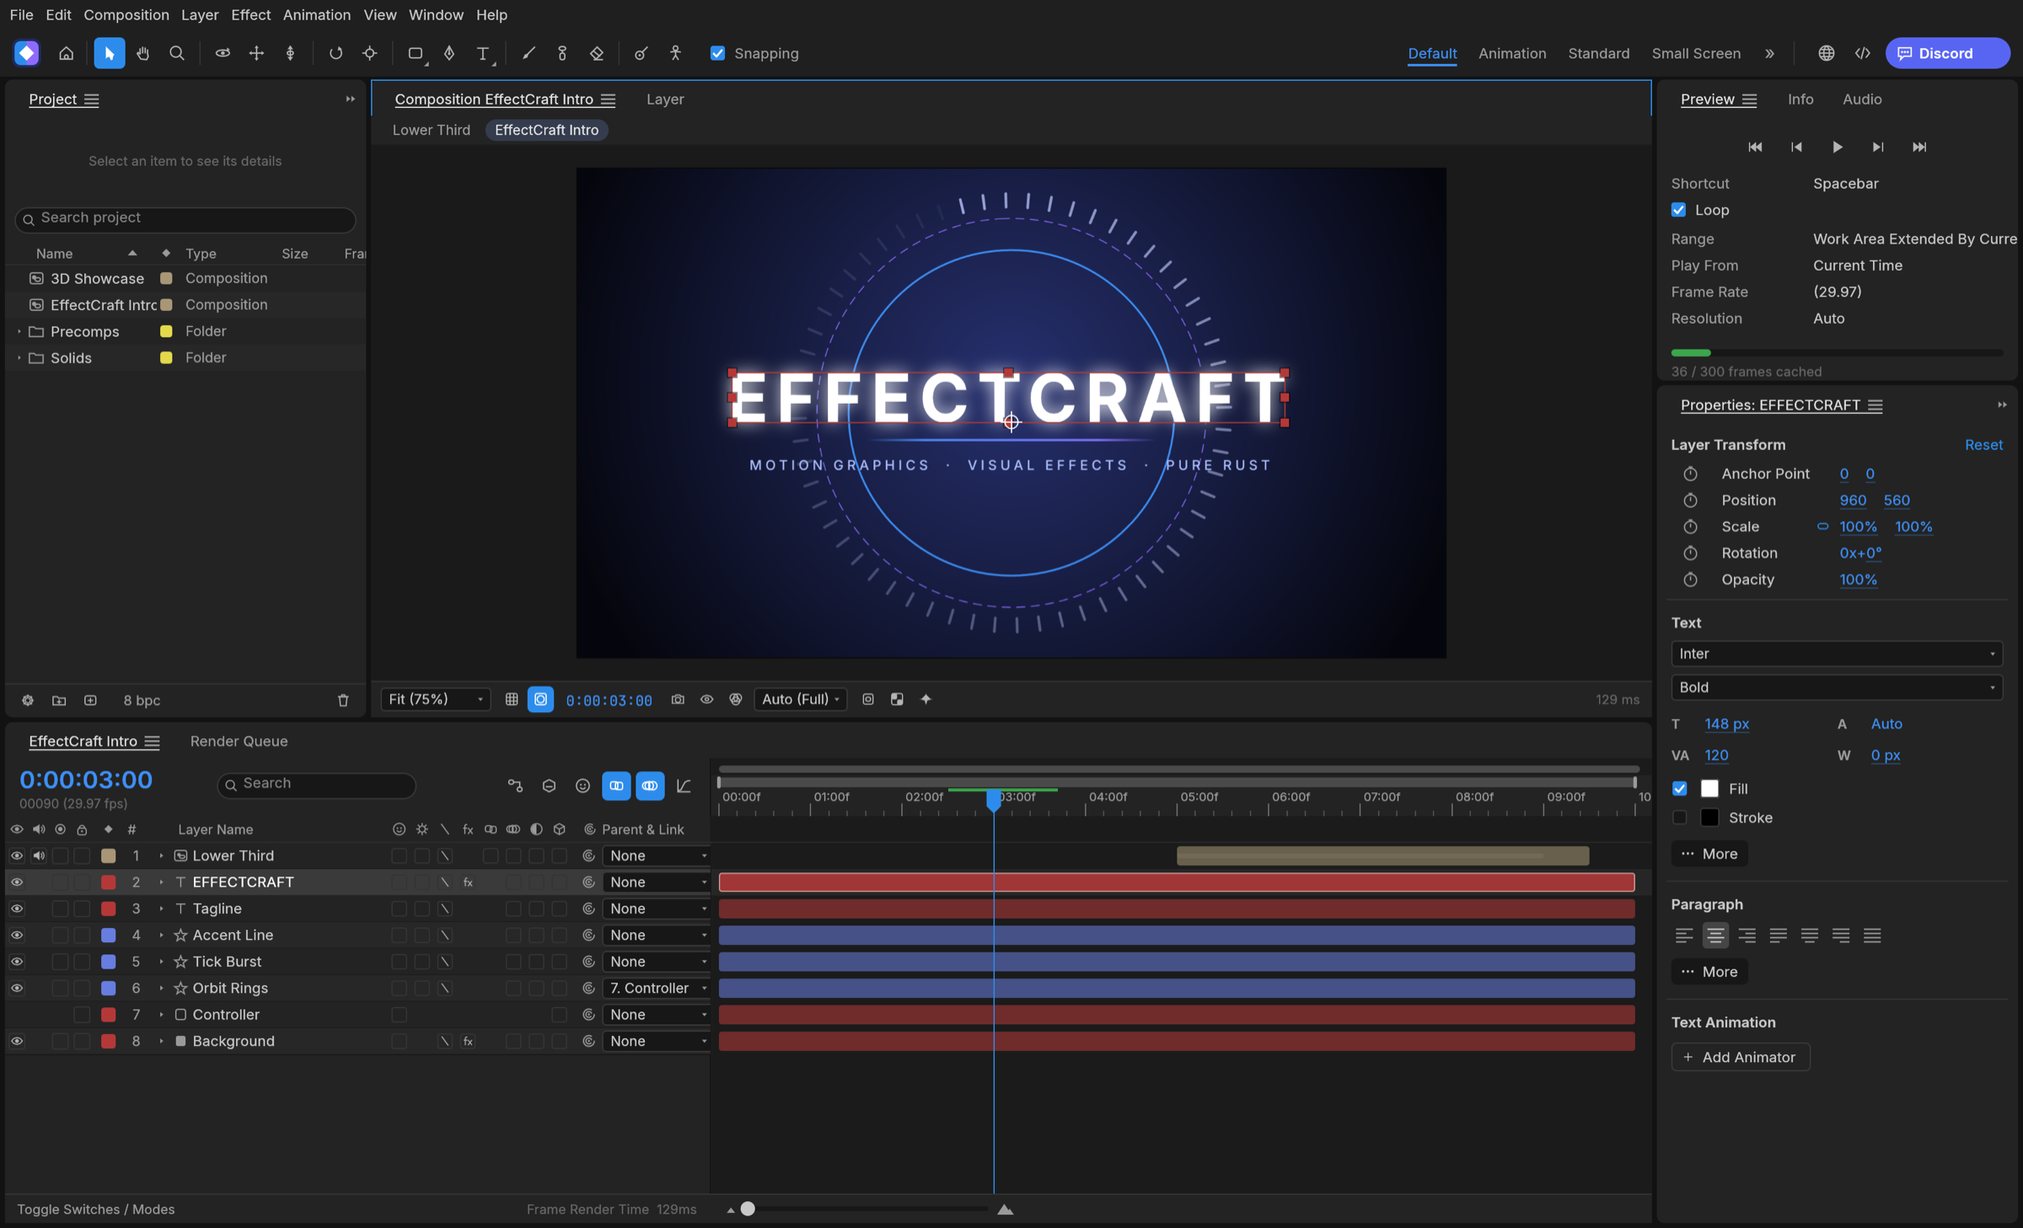
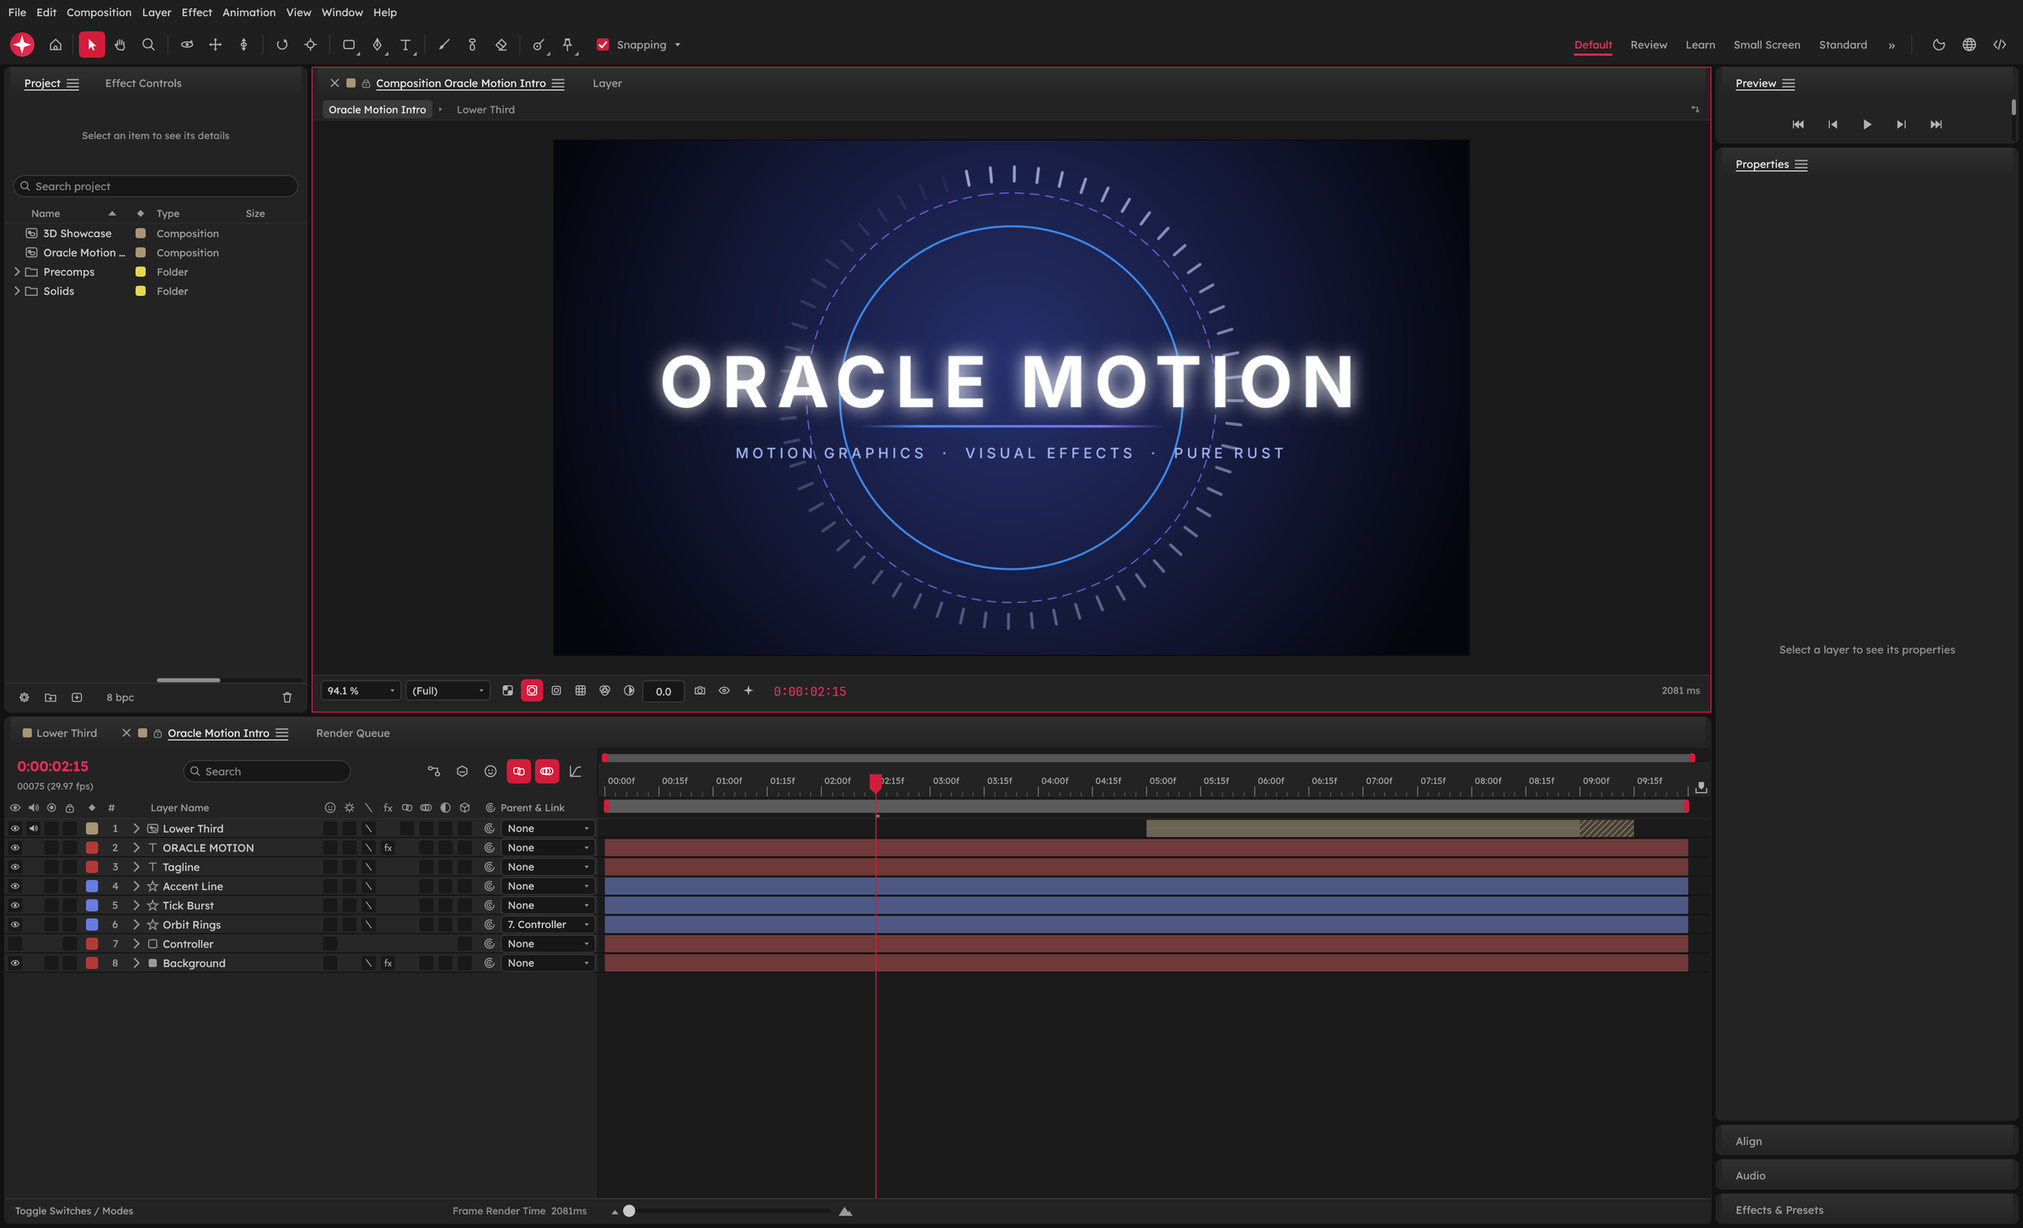
No ArtCraft in the repository; our own copies of the sources we build from
- The ArtCraft presentation is gone: links (Discord, getartcraft.com), the marks and their
  licence paragraphs, the community buttons and their catalog rows, the old drawn-icon notes.
  The README cites where the app comes from in a Sources section; NOTICE and the licence files
  keep the original notices, and code comments keep citing the upstream projects by name.
- Git dependencies on storytold repositories now point at their forks under Marvingxx (same
  pinned revisions): what we build from stays within reach.

Scripts: tools/purge_artcraft.py, tools/repoint_deps.py, tools/github_fork_deps.py.

diff --git a/xtask/src/pdf_deps.rs b/xtask/src/pdf_deps.rs
@@ -26,7 +26,7 @@ pub fn run(root: &Path) -> Result<(), String> {
 fn validate(metadata: &Value) -> Result<(), String> {
     let packages = metadata.get("packages").and_then(Value::as_array).ok_or("cargo metadata has no packages")?;
     let nodes = metadata.pointer("/resolve/nodes").and_then(Value::as_array).ok_or("cargo metadata has no resolved nodes")?;
-    let source = format!("git+https://github.com/storytold/craft-libs?rev={REV}#{REV}");
+    let source = format!("git+https://github.com/Marvingxx/craft-libs?rev={REV}#{REV}");
     for (name, version) in PACKAGES {
         let matches: Vec<_> = packages.iter().filter(|p| p["name"] == *name).collect();
         if matches.len() != 1 || matches[0]["version"] != *version || matches[0]["source"] != source {
@@ -58,7 +58,7 @@ mod tests {
 
     fn metadata() -> Value {
         let packages: Vec<_> = PACKAGES.iter().map(|(name, version)| {
-            json!({"id": name, "name": name, "version": version, "source": format!("git+https://github.com/storytold/craft-libs?rev={REV}#{REV}")})
+            json!({"id": name, "name": name, "version": version, "source": format!("git+https://github.com/Marvingxx/craft-libs?rev={REV}#{REV}")})
         }).collect();
         json!({"packages": packages, "resolve": {"nodes": [
             {"id": "hayro-syntax", "features": ["std"]}, {"id": "craft-pdf", "features": ["read"]}

diff --git a/crates/ui-egui/src/panels/settings.rs b/crates/ui-egui/src/panels/settings.rs
@@ -225,17 +225,12 @@ fn theme_preview(ui: &mut egui::Ui, kind: ThemeKind, width: f32) {
     painter.rect_filled(rect, 3.0, p.app_bg);
     let bar = Rect::from_min_size(rect.min, vec2(rect.width(), 13.0));
     painter.rect_filled(bar, 0.0, p.header_bg);
-    // The brand mark, the tools (the Selection tool is active) and the Discord pill.
+    // The brand mark and the tools (the Selection tool is active).
     painter.rect_filled(Rect::from_min_size(bar.min + vec2(4.0, 3.0), vec2(7.0, 7.0)), 2.0, p.accent);
     for i in 0..7 {
         let c = if i == 0 { p.accent } else { p.icon };
         painter.rect_filled(Rect::from_min_size(bar.min + vec2(16.0 + i as f32 * 8.0, 4.0), vec2(5.0, 5.0)), 1.0, c);
     }
-    painter.rect_filled(
-        Rect::from_min_max(pos2(bar.right() - 22.0, bar.top() + 3.0), pos2(bar.right() - 4.0, bar.bottom() - 3.0)),
-        3.5,
-        egui::Color32::from_rgb(0x58, 0x65, 0xf2),
-    );
     let gap = 2.0;
     let body = Rect::from_min_max(pos2(rect.left() + gap, bar.bottom() + gap), pos2(rect.right() - gap, rect.bottom() - gap));
     let right_w = (body.width() * 0.22).round();

diff --git a/crates/engine/src/tests_markers.rs b/crates/engine/src/tests_markers.rs
@@ -13,7 +13,7 @@ fn comp_marker_dialog_fields_and_undo() {
     let r = s
         .execute(
             "markers.set",
-            json!({"index": 0, "time": 1.51, "duration": 0.5, "comment": "Intro", "chapter": "One", "url": "https://getartcraft.com", "frameTarget": "_blank",
+            json!({"index": 0, "time": 1.51, "duration": 0.5, "comment": "Intro", "chapter": "One", "url": "https://example.com", "frameTarget": "_blank",
                    "cuePoint": {"name": "cue", "navigation": true, "params": [["k", "v"]]}, "protected": true, "label": "Aqua"}),
         )
         .unwrap();
@@ -25,7 +25,7 @@ fn comp_marker_dialog_fields_and_undo() {
     assert!((m["duration"].as_f64().unwrap() - 0.5).abs() < 1e-9);
     assert_eq!(m["comment"], "Intro");
     assert_eq!(m["chapter"], "One");
-    assert_eq!(m["url"], "https://getartcraft.com");
+    assert_eq!(m["url"], "https://example.com");
     assert_eq!(m["frameTarget"], "_blank");
     assert_eq!(m["cuePoint"]["name"], "cue");
     assert_eq!(m["cuePoint"]["navigation"], true);

diff --git a/crates/ui-egui/tests/ui_workflow_selection.rs b/crates/ui-egui/tests/ui_workflow_selection.rs
@@ -476,7 +476,7 @@ fn timeline_selected_effect_row_highlights() {
 
 /// Right-clicking a layer in the Timeline keeps the selection when the layer is part of it,
 /// so the context menu's commands act on every selected layer; right-clicking an unselected
-/// layer selects only it (After Effects). Reported on Discord: Pre-compose and Delete from the
+/// layer selects only it (After Effects). Reported by a user: Pre-compose and Delete from the
 /// menu acted on the right-clicked layer only (#878).
 #[test]
 fn timeline_context_menu_acts_on_the_whole_selection() {

diff --git a/crates/ui-egui/tests/ui_toolbar_gradient.rs b/crates/ui-egui/tests/ui_toolbar_gradient.rs
@@ -1,4 +1,4 @@
-//! The toolbar's Fill / Stroke swatch with Linear or Radial Gradient (#612, reported on Discord):
+//! The toolbar's Fill / Stroke swatch with Linear or Radial Gradient (#612):
 //! it opens the Gradient Editor on the selected shape layer's Gradient Fill / Gradient Stroke
 //! Colors, as in After Effects, instead of Fill / Stroke Options. The words still open the
 //! options, a Solid Color swatch the colour picker, Alt-click still steps through the kinds, and

diff --git a/crates/ui-egui/src/panels/markers_ui.rs b/crates/ui-egui/src/panels/markers_ui.rs
@@ -488,7 +488,7 @@ mod tests {
         assert_eq!(oracle_motion_engine::color::Label::ALL[d.label].name(), "Blue");
         d.duration = 0.5;
         d.chapter = "Ch".into();
-        d.url = "https://getartcraft.com".into();
+        d.url = "https://example.com".into();
         d.frame_target = "_self".into();
         d.protected = true;
         d.cue = false;

diff --git a/crates/ui-egui/src/header.rs b/crates/ui-egui/src/header.rs
@@ -1,5 +1,5 @@
 //! The Tools bar: home, the tool slots, tool options, snapping, workspaces and the community
-//! buttons (Discord is always one click away).
+//! buttons.
 
 use crate::i18n::{tr, tr_args};
 use egui::{Align2, Color32, Rect, Sense, Stroke, StrokeKind, pos2, vec2};

diff --git a/ATTRIBUTION.md b/ATTRIBUTION.md
@@ -52,10 +52,6 @@ Screenshots of Oracle Motion itself, rendered headlessly, showing only procedura
 | Asset | Author | Source | Licence |
 |---|---|---|---|
 | `docs/images/oracle-motion-hero.png` | Oracle Motion contributors | Original work: screenshot of Oracle Motion (Oracle Motion main window) | MIT OR Apache-2.0 |
-| `docs/images/oracle-motion-3d.png` | Oracle Motion contributors | Original work: screenshot of Oracle Motion (Oracle Motion Classic 3D) | MIT OR Apache-2.0 |
-| `docs/images/oracle-motion-graph-editor.png` | Oracle Motion contributors | Original work: screenshot of Oracle Motion (Oracle Motion Graph Editor) | MIT OR Apache-2.0 |
-| `docs/images/oracle-motion-effects.png` | Oracle Motion contributors | Original work: screenshot of Oracle Motion (Oracle Motion effects) | MIT OR Apache-2.0 |
-| `docs/images/oracle-motion-render-queue.png` | Oracle Motion contributors | Original work: screenshot of Oracle Motion (Oracle Motion Render Queue panel with the demo compositions queued for H.264 and ProRes export) | MIT OR Apache-2.0 |
 
 ## Code-drawn assets (original work, MIT OR Apache-2.0)
 
@@ -106,22 +102,9 @@ configuration from these Apache-2.0 projects:
 - `crates/segment/src/mobilesam.rs` follows the MobileSAM, TinyViT and Segment Anything
   architectures and their Apache-2.0 reference code.
 
-## First-party brand marks
+## Brand marks
 
-The ArtCraft name, wordmark and logos are trademarks of the ArtCraft Team. They are not open source and are not
-covered by the project licence; they may be used only unmodified and only as part of this repository and Oracle Motion,
-under [`docs/brand/LICENSE-brand.txt`](docs/brand/LICENSE-brand.txt). Forks and modified versions must remove them
-(AGENTS.md §1.8).
-
-| File | Author | Source | Licence |
-|---|---|---|---|
-| `docs/brand/artcraft-logo-white.png` | ArtCraft Team | Original work: first-party ArtCraft brand mark (ArtCraft wordmark, light ink for dark backgrounds) | ArtCraft brand terms, not open source (`docs/brand/LICENSE-brand.txt`) |
-| `docs/brand/artcraft-logo-white.svg` | ArtCraft Team | Original work: first-party ArtCraft brand mark (ArtCraft wordmark, light ink for dark backgrounds) | ArtCraft brand terms, not open source (`docs/brand/LICENSE-brand.txt`) |
-| `docs/brand/artcraft-logo.png` | ArtCraft Team | Original work: first-party ArtCraft brand mark (ArtCraft wordmark (symbol + "ARTCRAFT"), dark ink for light backgrounds) | ArtCraft brand terms, not open source (`docs/brand/LICENSE-brand.txt`) |
-| `docs/brand/artcraft-logo.svg` | ArtCraft Team | Original work: first-party ArtCraft brand mark (ArtCraft wordmark (symbol + "ARTCRAFT"), dark ink for light backgrounds) | ArtCraft brand terms, not open source (`docs/brand/LICENSE-brand.txt`) |
-| `docs/brand/artcraft-mark-black.png` | ArtCraft Team | Original work: first-party ArtCraft brand mark (ArtCraft symbol ("A" mark), black) | ArtCraft brand terms, not open source (`docs/brand/LICENSE-brand.txt`) |
-| `docs/brand/artcraft-mark-black.svg` | ArtCraft Team | Original work: first-party ArtCraft brand mark (ArtCraft symbol ("A" mark), black) | ArtCraft brand terms, not open source (`docs/brand/LICENSE-brand.txt`) |
-| `docs/brand/artcraft-mark.png` | ArtCraft Team | Original work: first-party ArtCraft brand mark (ArtCraft symbol ("A" mark), blue) | ArtCraft brand terms, not open source (`docs/brand/LICENSE-brand.txt`) |
-| `docs/brand/artcraft-mark.svg` | ArtCraft Team | Original work: first-party ArtCraft brand mark (ArtCraft symbol ("A" mark), blue) | ArtCraft brand terms, not open source (`docs/brand/LICENSE-brand.txt`) |
+The Oracle name, logo and wordmark in `docs/brand/` are the project's brand marks, not covered by the
+project licence (see [`docs/brand/LICENSE-brand.txt`](docs/brand/LICENSE-brand.txt)); each file has its sidecar.
 
 - Appearance theme previews, drawn procedurally from original shapes: `crates/ui-egui/src/panels/settings.rs` (original work, MIT OR Apache-2.0).

diff --git a/README.md b/README.md
@@ -108,9 +108,6 @@ or into the Timeline, between layers and at the time you point to.
   layer, real-time pin recording, rotate/scale handles, pins driven by (or carrying) nulls for
   rigging, and follow-through for hair and cloth.
 
-<p align="center">
-  <img src="docs/images/oracle-motion-graph-editor.png" alt="The Graph Editor showing an eased value curve for a text animator's Range Start, with the graph editor's button bar for hold, linear, auto Bezier and Easy Ease" width="100%">
-</p>
 
 ## Effects
 
@@ -124,9 +121,6 @@ stylize (Glow, CC Glass…), **time** (Echo, Posterize Time, Timewarp, Time Disp
 controls. All nine **Layer Styles** (Drop Shadow, Inner/Outer Glow, Bevel and Emboss, Satin,
 overlays, Stroke) with Global Light. Preview plays audio in sync, with meters and waveforms.
 
-<p align="center">
-  <img src="docs/images/oracle-motion-effects.png" alt="A CC Particle World burst with Glow, and the Effect Controls panel listing the particle system's parameters" width="100%">
-</p>
 
 ## 3D
 
@@ -135,9 +129,6 @@ one- and two-node **cameras** with depth of field, **lights** (parallel, spot, p
 with soft ray-traced shadows, layers that intersect correctly, orbit, pan and dolly camera
 tools, and Front, Top, Left and Custom views.
 
-<p align="center">
-  <img src="docs/images/oracle-motion-3d.png" alt="The 3D Showcase demo in Custom View 1: intersecting cards lit by a spot light with soft shadows on a gridded floor, with the camera frustum and light drawn as wireframes" width="100%">
-</p>
 
 ## Export
 
@@ -155,9 +146,6 @@ solid, image, text and null layers, eased and spatial keyframes, masks, track ma
 modes, time remapping, optionally expressions) as `.json` or `.lottie`, and lists anything Lottie
 cannot express; File ▸ Import ▸ Lottie… opens one as a new composition.
 
-<p align="center">
-  <img src="docs/images/oracle-motion-render-queue.png" alt="The Render Queue panel with two compositions queued" width="100%">
-</p>
 
 ## Built for agents
 
@@ -325,20 +313,23 @@ Oracle Motion is part of **Oracle**, a personal creative suite, free and local:
 | **Oracle Brand Guide** | Brand guidelines and page layout | [oracle-guide](https://github.com/Marvingxx/oracle-guide) |
 | **Oracle Motion** | Motion graphics and compositing | [oracle-motion](https://github.com/Marvingxx/oracle-motion) |
 
-Oracle Motion started as a fork of [EffectCraft](https://github.com/storytold/effectcraft) by the ArtCraft
-team (MIT OR Apache-2.0), taken on 22 October 2026 and developed separately since. It is not
-affiliated with or endorsed by ArtCraft.
+
+## Sources
+
+Oracle Motion is built on [EffectCraft](https://github.com/storytold/effectcraft) by storytold (MIT OR
+Apache-2.0), taken on 23 October 2026 and developed separately since; its code, rewritten or not, keeps
+that licence and the original notices (`NOTICE`, `LICENSE-*`). Every other source (fonts, icons,
+libraries, images) is listed with its author and licence in the attribution file.
 
 ## License and credits
 
 Oracle Motion is dual-licensed under [MIT](LICENSE-MIT) or [Apache-2.0](LICENSE-APACHE), at your option.
-Copyright (c) 2026 ArtCraft Team and the Oracle Motion contributors. Required notices are in [NOTICE](NOTICE).
+Required notices are in [NOTICE](NOTICE).
 
 Bundled fonts, icons, images and other assets keep their own open licenses; each one is listed
 with its author, source and license in [ATTRIBUTION.md](ATTRIBUTION.md).
 
 The Oracle name and logo in [`docs/brand/`](docs/brand/) are the project's brand marks and are not
-covered by this license (see [`docs/brand/LICENSE-brand.txt`](docs/brand/LICENSE-brand.txt)). The
-ArtCraft marks of the original project have been removed, as its brand license asks of forks.
+covered by this license (see [`docs/brand/LICENSE-brand.txt`](docs/brand/LICENSE-brand.txt)).
 
 

diff --git a/assets/app-icon/README.md b/assets/app-icon/README.md
@@ -1,42 +1,7 @@
 # Oracle Motion app icon
 
-**Creature:** a unicorn, as an engraved head-and-shoulders bust looking out of the tile.
+The Oracle app tile, like every Oracle app: a rounded square in the app's colour (`#8a3ffc`) with the
+Oracle four-pointed star and the letters "Mo".
 
-**Style:** an ink engraving portrait in the Crafting Apps' owl-template framing (the FilmCraft owl):
-full-bleed colour field, tight head-and-shoulders crop, the body running off the bottom and right edges.
-
-**Tile:** 512 × 512 viewBox, rounded square `rx=112`, clipped; no border or roundel.
-
-**Palette** (exactly three colours):
-
-| Colour | Hex | Used for |
-|---|---|---|
-| App colour (Oracle Motion pink) | `#e0368f` | the full-bleed field |
-| Paper | `#efe9dc` | the figure |
-| Ink | `#0b0b0c` | line work and contour |
-
-**Provenance:** the project owner drew it in ArtCraft (a 2880 px engraving-style image, kept in
-craftrules at `assets/app-icons/oracle-motion/source.png`). It was vectorised with craftrules
-`assets/logo-options/_tools/vectorize_tile.py`, which keys out the field and traces the ink with potrace.
-Licence: see [LICENSE.txt](LICENSE.txt) (MIT OR Apache-2.0, like the repo).
-
-## Files
-
-| File | What |
-|---|---|
-| `oracle-motion.svg` | master vector, traced at 2048 px (canonical) |
-| `oracle-motion-small.svg` | lighter vector (~350 KB), traced at 1024 px; also the web favicon |
-| `oracle-motion-1024.png` | 1024 px render |
-| `oracle-motion-macos-512.png` | runtime Dock icon on macOS, on Apple's 824/1024 grid |
-| `oracle-motion.icns` | macOS icon (Apple grid) |
-| `oracle-motion.ico` | Windows icon, 16–256 px; embedded in `oracle-motion.exe` by `apps/oracle-motion/build.rs` |
-| `hicolor/<n>x<n>/apps/app.oracle.oracle-motion.png` | Linux icon theme, 16–512 px; the 256 px one is the runtime icon on Windows and Linux |
-| `hicolor/scalable/apps/app.oracle.oracle-motion.svg` | Linux scalable icon |
-
-App ID: `app.oracle.oracle-motion` (Wayland app ID, `packaging/linux/app.oracle.oracle-motion.desktop`).
-
-## Regenerate
-
-Copy a new `icon-master.svg` / `icon.svg` from craftrules `assets/app-icons/oracle-motion/` over
-`oracle-motion.svg` / `oracle-motion-small.svg`, then run `packaging/icons.sh` (needs `resvg`; `iconutil`
-on macOS for the `.icns`). Copy `oracle-motion-small.svg` to `apps/oracle-motion-web/web/favicon.svg` too.
+Drawn by `Oracle-suite/tools/make_app_icon.py`, which writes the SVGs, the 1024 px PNG, the `.ico`, the
+`.icns` and the `hicolor/` sizes.

diff --git a/AGENTS.md b/AGENTS.md
@@ -76,10 +76,9 @@ reproduce an image (for example, point lists traced from someone else's icon).
    `crates/engine/src/demo.rs`, generators in `crates/effects`) are original work under the project licence
    and are listed in `ATTRIBUTION.md`.
 7. **When in doubt, leave it out** and draw or generate it yourself.
-8. **The one exception: first-party ArtCraft brand marks.** The ArtCraft name and logos in `docs/brand/`
-   are trademarks of the ArtCraft Team, not open source, usable only unmodified and only in the context of
-   Oracle Motion under `docs/brand/LICENSE-brand.txt` (forks and modified versions must remove them). They still
-   need a sidecar and an `ATTRIBUTION.md` row (licence `LicenseRef-ArtCraft-Trademark`). No other
+8. **The one exception: Oracle's brand marks.** The Oracle name, logo and wordmark in `docs/brand/`
+   are the project's brand marks, not open source, under `docs/brand/LICENSE-brand.txt`. They still
+   need a sidecar and an `ATTRIBUTION.md` row (licence `LicenseRef-Oracle-Brand`). No other
    non-open asset is allowed, and this exception never covers third-party marks (Adobe, Discord, GitHub
    and other logos stay out; draw a generic icon instead).
 

diff --git a/CLAUDE.md b/CLAUDE.md
@@ -19,7 +19,7 @@ Oracle Motion is a clean-room, open-source, pure-Rust motion graphics and visual
 - **Property tree:** everything animatable is a `Property` in the layer's `PropGroup` tree, addressed by paths (`transform/position`, `effects/#1/blurriness`, `@uid`).
 - **Everything is a command** (`crates/engine`): id, label, menu path, shortcut, params, enabled(), run(). UI, CLI, control channel and MCP dispatch by id.
 - **Everything is agent-drivable:** every interactive widget registers an automation id; UI state is serde.
-- **Community links** (Help menu, About, header Discord button): https://discord.gg/artcraft, https://getartcraft.com, https://github.com/Marvingxx/oracle-motion, https://github.com/Marvingxx/oracle-motion.
+- **Links** (Help menu, About): Oracle Suite (https://github.com/Marvingxx/oracle-suite), Oracle on GitHub (https://github.com/Marvingxx), the repository (https://github.com/Marvingxx/oracle-motion).
 - **Quality gates** before every commit: `cargo xtask ci` (fmt, clippy -D warnings, tests, layers, assets, wasm).
 - **Commits:** one task id per commit (`M6.3: trim paths`). Only green states.
 
